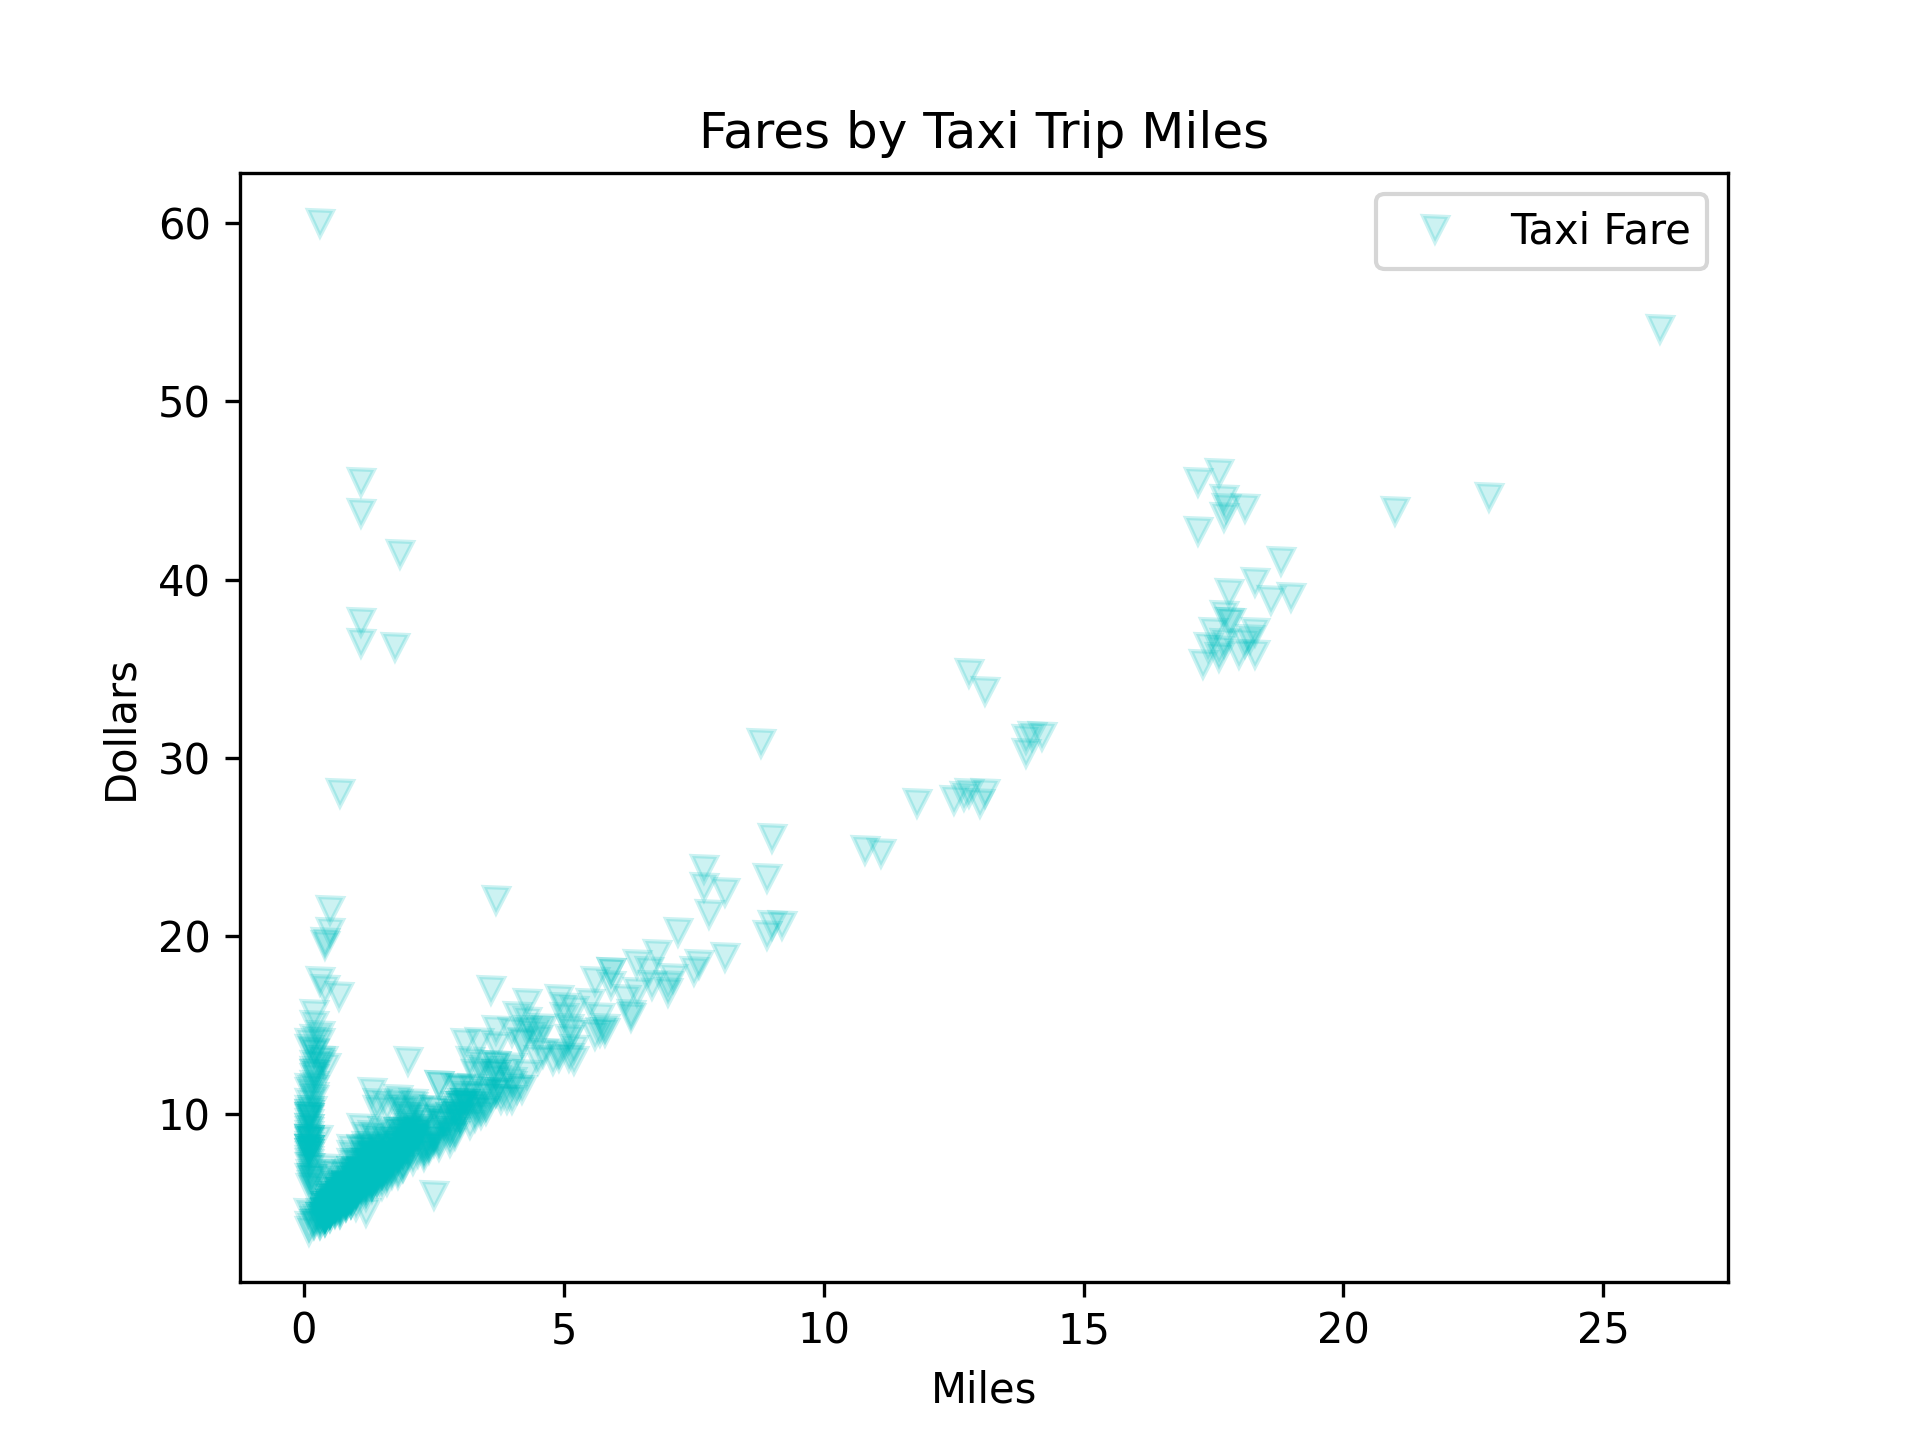
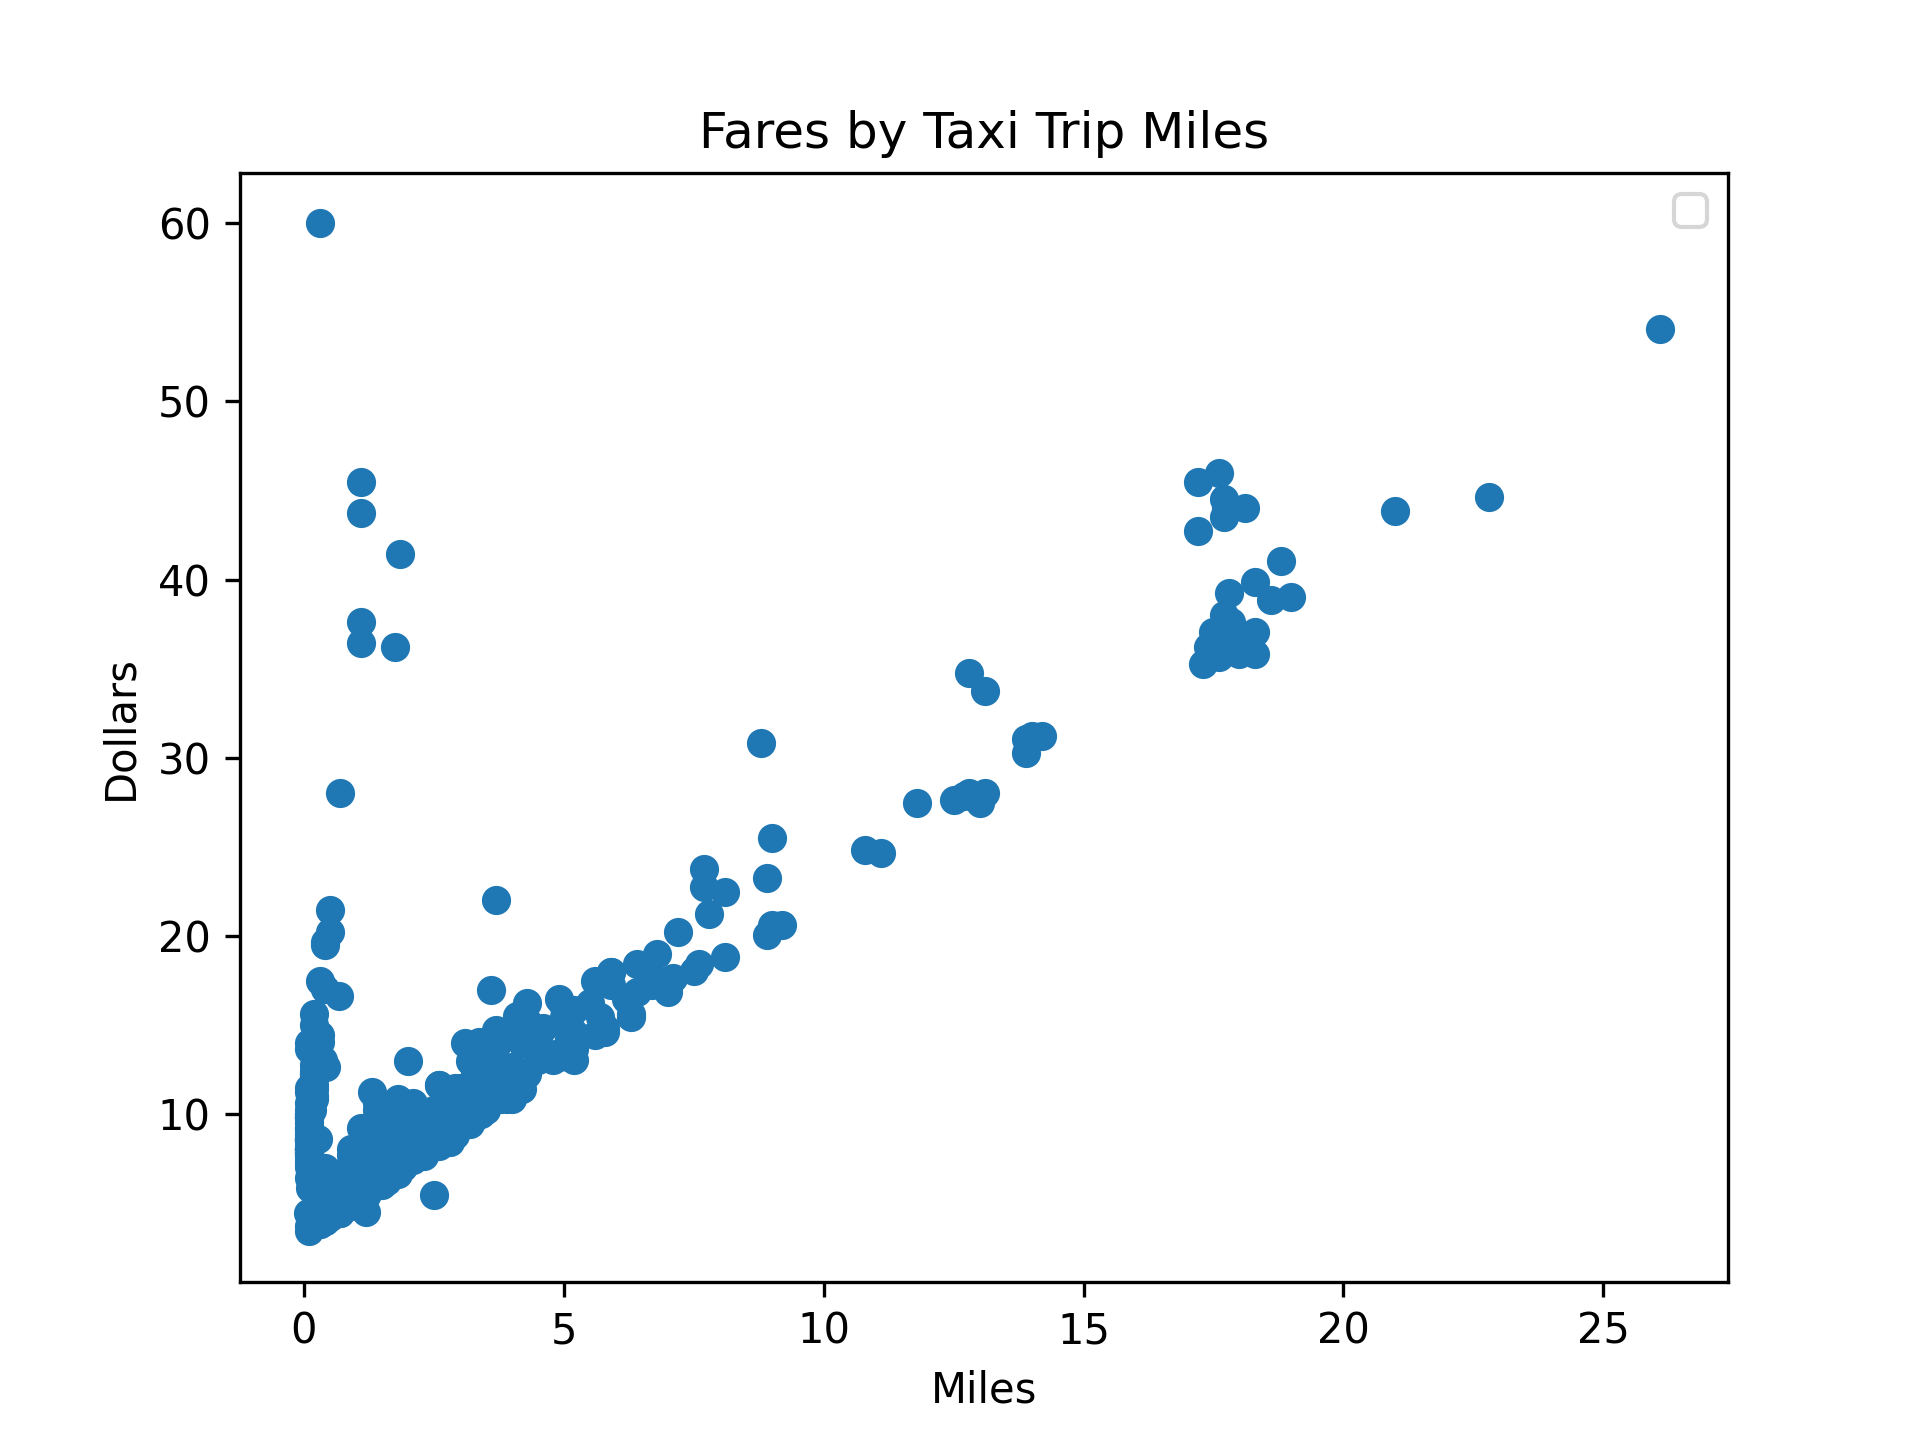
xxx

diff --git a/DataViz/Ex4.py b/DataViz/Ex4.py
@@ -11,8 +11,9 @@ trip_miles = trip_miles_gt_0.trip_miles
 fig = plt.figure()
 
 # Use a cyan colored triangle down marker with a transparency of 0.2
-plt.plot(trip_miles, fare_series, marker = "v", linestyle = "none", color = 'c',
-         label = "Taxi Fare", alpha = 0.2)
+#plt.plot(trip_miles, fare_series, linestyle= "none", marker=".")
+#plt.plot(trip_miles, fare_series, marker = "v", linestyle = "none", color = 'c', label = "Taxi Fare", alpha = 0.2)
+plt.scatter(trip_miles, fare_series)
 plt.title('Fares by Taxi Trip Miles')
 plt.xlabel('Miles')
 plt.ylabel('Dollars')

diff --git a/DataViz/Ex0.py b/DataViz/Ex0.py
@@ -2,8 +2,21 @@
 import matplotlib.pyplot as plt
 
 x_values = [1, 2, 3, 4, 5]
-y_values = [2, 3, 3, 3.5, 4]
+y_values = [1, 3, 3, 3.5, 4]
 
-plt.plot(x_values, y_values)
+# Plot these values
+#plt.plot(x_values, y_values)
+plt.scatter(x_values, y_values)
+
+# Now add in a second set of values
+other_x = [1, 2, 3, 4]
+other_y = [2, 4, 6, 8]
+plt.plot(other_x, other_y)
+
+# Add in X and Y axis labels and a title
+plt.xlabel("X values")
+plt.ylabel("Y values")
+plt.title("Line and Scatter Plot")
+
 
 plt.show()

diff --git a/DataViz/Ex5.py b/DataViz/Ex5.py
@@ -2,14 +2,16 @@
 import pandas as pd
 import matplotlib.pyplot as plt
 
-# Use the seaborn visualization style
+# Use different plot styles
 #plt.style.use('ggplot')
 #plt.style.use('dark_background')
 plt.style.use('fivethirtyeight')
 
 trips_df = pd.read_json('../Trips from area 8.json')
 
+#trip_miles_gt_0 = trips_df[['trip_miles', 'fare']]
 trip_miles_gt_0 = trips_df[['trip_miles', 'fare']].query('trip_miles > 0')
+
 fare_series = trip_miles_gt_0.fare
 trip_miles = trip_miles_gt_0.trip_miles
 

diff --git a/DataViz/Ex3.py b/DataViz/Ex3.py
@@ -8,6 +8,7 @@ fare_series = trips_df.fare
 tips_series = trips_df.tips
 
 fig = plt.figure()
+
 # write a line to plot tips (y-axis) by fare (x-axis) on a scatterplot
 plt.plot(fare_series, tips_series, marker = ".", linestyle = "none")
 

diff --git a/DataViz/Ex1.py b/DataViz/Ex1.py
@@ -1,4 +1,4 @@
-# Create a historgram from the trip miles data
+# Create a histogram from the trip miles data
 import pandas as pd
 import matplotlib.pyplot as plt
 
